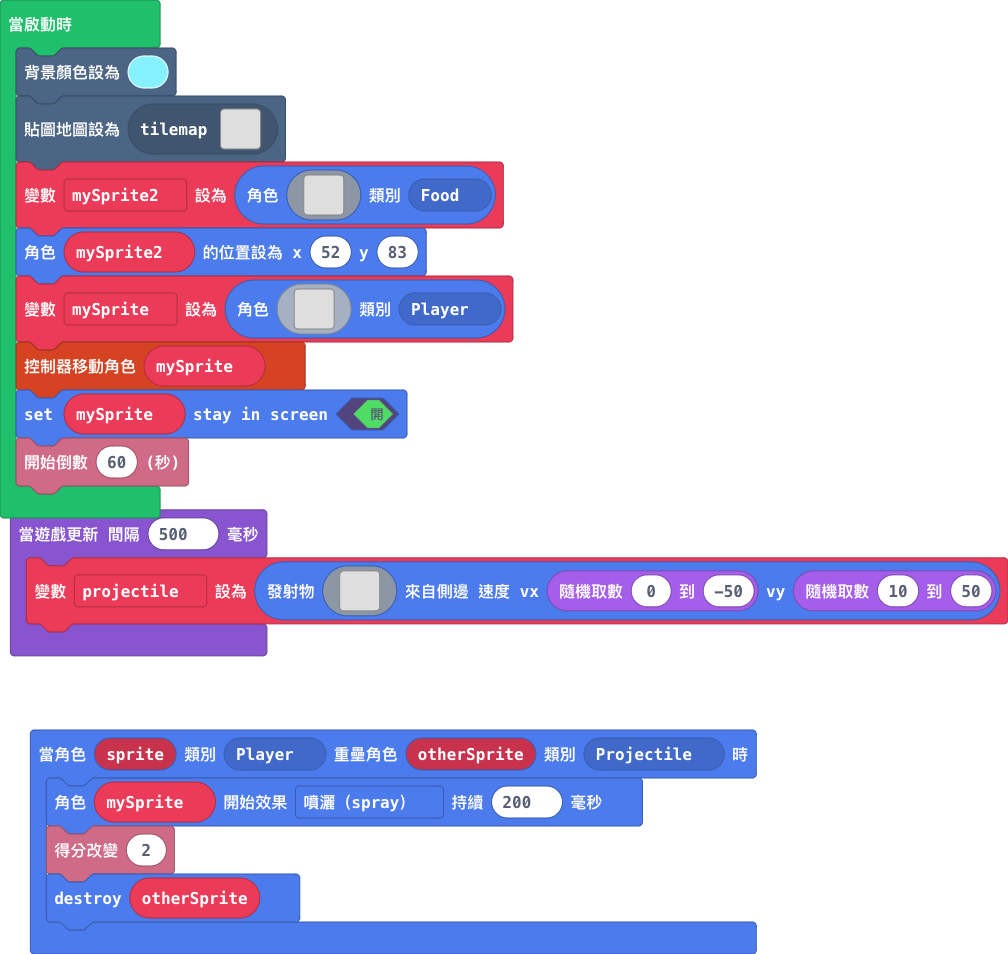
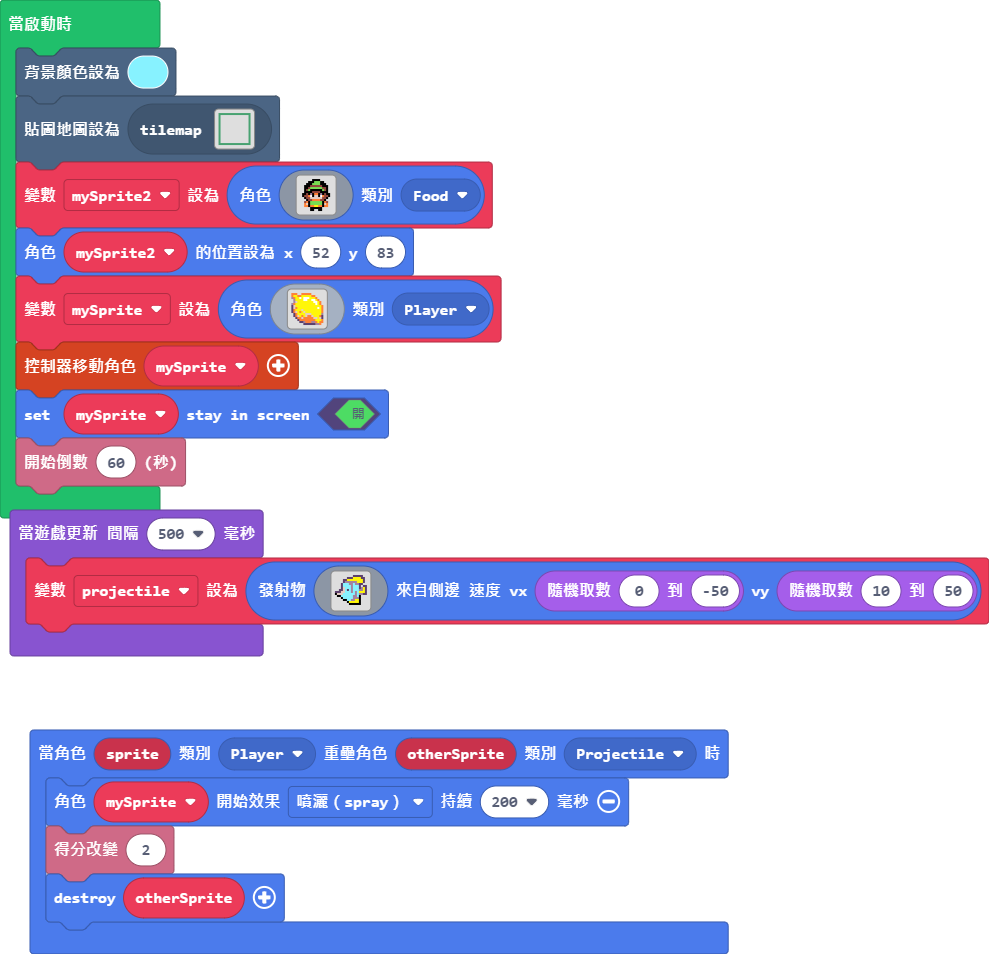
更新 main.blocks, main.ts

diff --git a/main.ts b/main.ts
@@ -32,21 +32,21 @@ mySprite.setStayInScreen(true)
 info.startCountdown(60)
 game.onUpdateInterval(500, function () {
     projectile = sprites.createProjectileFromSide(img`
-        . . . . . . . 6 . . . . . . . . 
-        . . . . . . 8 6 6 . . . 6 8 . . 
-        . . . e e e 8 8 6 6 . 6 7 8 . . 
-        . . e 2 2 2 2 e 8 6 6 7 6 . . . 
-        . e 2 2 4 4 2 7 7 7 7 7 8 6 . . 
-        . e 2 4 4 2 6 7 7 7 6 7 6 8 8 . 
-        e 2 4 5 2 2 6 7 7 6 2 7 7 6 . . 
-        e 2 4 4 2 2 6 7 6 2 2 6 7 7 6 . 
-        e 2 4 2 2 2 6 6 2 2 2 e 7 7 6 . 
-        e 2 4 2 2 4 2 2 2 4 2 2 e 7 6 . 
-        e 2 4 2 2 2 2 2 2 2 2 2 e c 6 . 
-        e 2 2 2 2 2 2 2 4 e 2 e e c . . 
-        e e 2 e 2 2 4 2 2 e e e c . . . 
-        e e e e 2 e 2 2 e e e c . . . . 
-        e e e 2 e e c e c c c . . . . . 
-        . c c c c c c c . . . . . . . . 
+        . . . . . . . . . c c c c c . . 
+        . . . . . . c c c 5 5 5 5 c c . 
+        . . . . c c 5 5 5 5 5 5 5 5 c . 
+        . . . . c b b b b b b 5 5 5 c . 
+        . . . c 9 9 9 b b 9 b b c c . . 
+        . . . c 9 9 9 9 b 9 9 9 c . c c 
+        . . . c d 9 9 9 b 9 9 9 c b 5 c 
+        . . c c d 9 c 9 b 9 9 9 b b 5 c 
+        c c c d d 9 9 9 b 9 b 9 5 5 5 c 
+        f d d d 9 9 9 9 9 9 b 9 b b c c 
+        . f f 9 9 9 9 9 9 b b 9 f . . . 
+        . . . f 9 9 9 9 9 b b b f . . . 
+        . . . . f f 9 9 b b 5 5 f . . . 
+        . . . . . . f 5 5 5 5 5 f . . . 
+        . . . . . . . f f f f f f . . . 
+        . . . . . . . . . . . . . . . . 
         `, randint(0, -50), randint(10, 50))
 })
